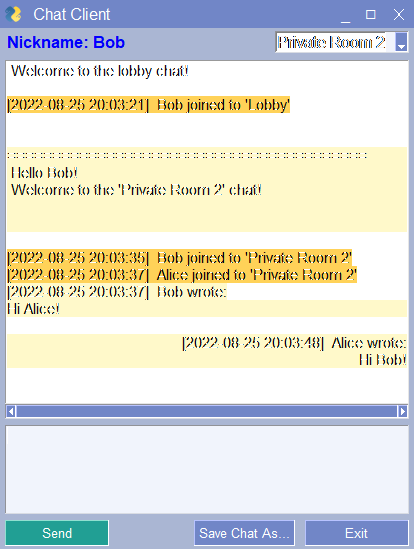
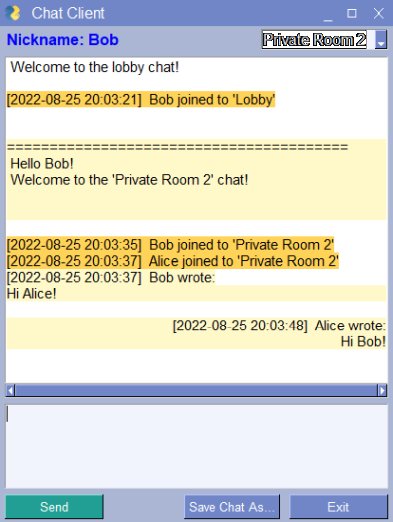
Readme Update

diff --git a/README.md b/README.md
@@ -1,20 +1,25 @@
-# Chat Rooms
+# Chat Rooms Project
  Chat Rooms as an exercise for Python Software Development course
  Based on [PySimpleGUI](https://github.com/PySimpleGUI) framework
 
 - Chat Client
-![Chat Client](screenshots/Client95.png?raw=true)
+   ![Chat Client](screenshots/Client.png?raw=true)
 
+   
 
 - Chat Server
-![Chat Server](screenshots/Server95.png?raw=true)
+   ![Chat Server](screenshots/Server.png)
+
 
 
 - Chat Status
-![Chat Status](screenshots/Status95.png?raw=true)
+   ![Chat Status](screenshots/Status.png)
+
+
+
 
 ## Credits
+
 - GitHub: [PySimpleGUI](https://github.com/PySimpleGUI)
 - Website: [PySimpleGUI.org](https://PySimpleGUI.org)
 
-https://drive.google.com/file/d/14i-101CPhIrEBfQOg8Kkut5SVNjfYNdm/view
